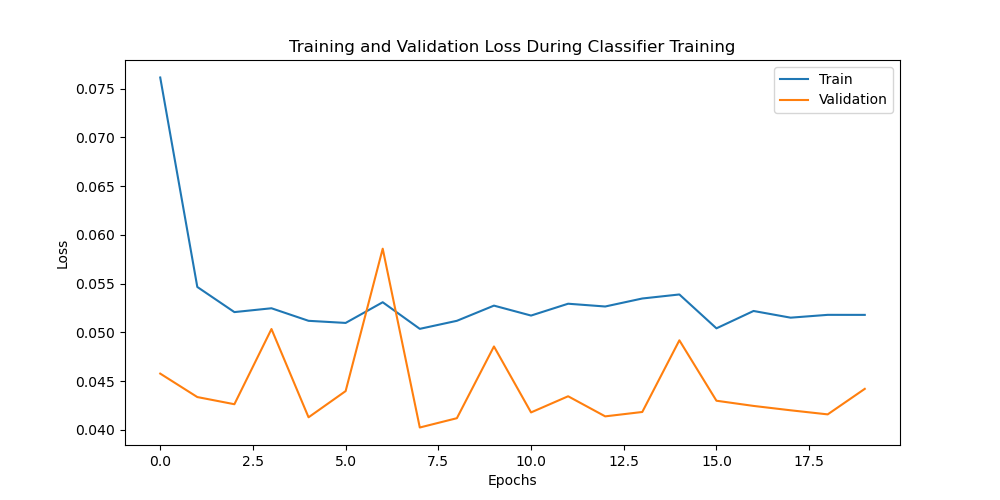
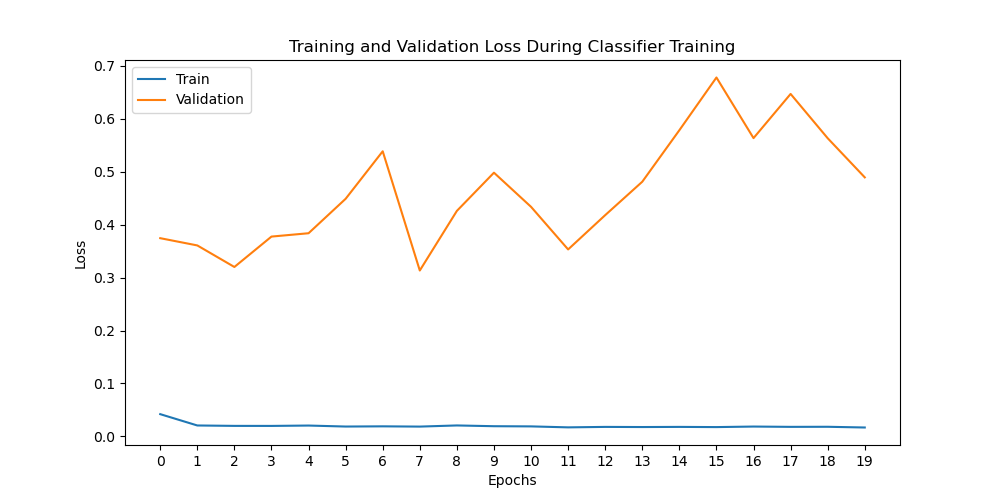
restructured report to have an overview and a detailed appendix, updated some images

diff --git a/recognition/Siamese_46417259/README.md b/recognition/Siamese_46417259/README.md
@@ -3,16 +3,27 @@ Project by Minhao Sun.
 
 This project is a part of the University of Queensland's COMP3710: Pattern Recognition and Analysis course in Semester 2, 2023.
 
-# Project Introduction
-Here is a placeholder
+# Project Overview
+The project aims to classify brain scans in the Alzheimer’s Disease Neuroimaging Initiative (ADNI) brain dataset as being either Cognitive Normal (NC) or suffering from Alzheimer's disease (AD). 
+It achieves this through representation learning using a **Siamese network** with a twin **embedding network** structure.
 
-a description of the algorithm and the problem that it solves
-(approximately a paragraph), how it works in a paragraph and a figure/visualisation
+A Siamese network is a neural network architecture that consists of two or more identical subnetworks that share the same model weights. 
+In the present project's case, the Siamese architecture allows the **embedding network** to learn to generate similar feature vectors for images of the same class and dissimilar feature vectors for images of different classes. Once the **embedding network** is trained, a separate **classifier** is trained to classify the feature vectors generated by the **embedding network**.
 
-name drop pytorch
+The final model works by passing the (preprocessed) images through the trained **embedding network** to generate a feature vector. 
+The feature vector is then passed through the trained **classifier** to generate a prediction. The project is implemented in Python 3.11.4 using Pytorch (see below for other dependencies). It is capable of achieving a final classification accuracy of approximately 78% on the test set.
+
+> [!NOTE]
+> Figures of the model architectures are provided in the section ***The Models*** in the Appendix.
+>
+> Training and validation loss plots, and validation and testing accuracy plots, are provided in the section ***Training and Validating the Models*** in the Appendix. Reproducibility of results is also addressed in the same section.
+>
+> Visualisation of the ADNI dataset (sample inputs) are provided in the section ***The Dataset and Preprocessing*** in the Appendix. The training, validation and testing split is also addressed in the same section.
+>
+> Example outputs of the model are provided in the section ***Using the Models for Classification*** in the Appendix.
 
 ## Project files and usage
-The project contains the following files:
+The project contains the following items:
 * `dataset.py`: contains code for preprocessing and loading data
 * `modules.py`: contains the components of the models used in this project
 * `predict.py`: contains code demonstrating example usage of a trained model
@@ -21,15 +32,27 @@ The project contains the following files:
 * `CONSTANTS.py`: defines global constants for filepaths to be used in the project
 * `BSD_new.txt`: see the section ***Open Source Acknowledgement and Licences***
 * `README.md`: this README
+* `/assets/`: contains images used in this README
 
-
-## Defined Terms
-The following terms in this README are given specific meanings: 
-* torch: Pytorch
-* `nn`: Pytorch's Neural Network module, `torch.nn` 
+## Dependencies
+This project is developed in the following environment:
+* python 3.11.4 
+* pytorch 2.0.1
+* torchvision 0.15.2
+* numpy 1.25.0
+* matplotlib 3.7.1
 
 &nbsp;
 
+# Appendix: the Project in Detail
+The following sections details the technical aspects of the project. It is intended as a supplement to the overview above.
+
+## Defined Terms
+The following terms are given specific meanings: 
+* torch: Pytorch
+* `nn`: Pytorch's Neural Network module, `torch.nn`
+
+&nbsp;
 
 # The Models
 The project makes use of three models which are located in `modules.py` and inherit from `nn.Module`. The models are:
@@ -96,13 +119,13 @@ Image pairings are generated randomly such that for any given image in the datas
 The function `test_visualise_data_MLP` allows for the visualisation of the data used to train/validate/test the MLP. A sample output is provided below: 
 
 ![Sample batch containing 15 images that are used to validate the MLP with labels presented in human-readable form](assets/data_for_mlp.png)
-<sub>Sample batch containing 15 images that are used to validate the MLP with labels presented in human-readable form (note the absence of translation transforms)</sub>
+<sub>Sample batch containing 15 images that are used to **validate** the MLP with labels presented in human-readable form (note the absence of translation transforms)</sub>
 
 The function `test_visualise_data_Siamese` allows for the visualisation of the data used to train/validate/test the Siamese network. A sample output is provided below. 
 Note that the visualisation includes the last 15 characters of each image's filepath (excluding file extension). This was added to check that the same/different labels are applied correctly.
 
 ![Sample batch containing 9 paired images that are used to train the Siamese network with labels presented in human-readable form](assets/data_for_siamese.png)
-<sub>Sample batch containing 9 paired images that are used to train the Siamese network with labels presented in human-readable form (note the presence of translation transforms)</sub>
+<sub>Sample batch containing 9 image pairs that are used to **train** the Siamese network with labels presented in human-readable form (note the presence of translation transforms)</sub>
 
 &nbsp;
 # Training and Validating the Models
@@ -126,12 +149,11 @@ Adam was used as the optimiser for the Siamese network with a learning rate of 0
 
 ### Results
 Ultimately, it was found that 15 epochs of Siamese training for the embedding network resulted in the best classifier accuracy regardless of the number of epochs used to train the classifier.
-This is despite the fact that the Siamese network appears to overfit the training data after 8 to 10 epochs of training in the loss plot below. 
+This is despite the fact that the Siamese network appears to overfit the training data after 9 to 11 epochs of training in the loss plot below (note that the x-axis of the plot is 0-indexed). 
 
-![Training and validation loss plot for the overall Siamese network, showing validation loss diverging from training loss from around epochs 8 to 10](assets/Siamese_loss_after_15_epochs.png)
+![Training and validation loss plot for the overall Siamese network, showing validation loss diverging from training loss from around epochs 9 to 11](assets/Siamese_loss_after_15_epochs.png)
 <sub>Training and validation loss plot for the overall Siamese network</sub>
 
-&nbsp;
 ## Training for the Classification Network
 ### Loss Function
 As the classifier is performing a binary classification task, binary cross-entropy loss was used.
@@ -140,28 +162,47 @@ As the classifier is performing a binary classification task, binary cross-entro
 Adam was used as the optimiser for the classifier with a learning rate of 0.001 and betas of (0.5, 0.999). During testing, this confirguration was found to deliver the best performance in terms of loss and final accuracy. Weight decay and learning rate schedulers were tested, but were found to not improve the performance of the model.
 
 ### Results
-The classifier was trained for 20 epochs. The training and validation loss plot is shown below. Both the training and validation losses appear to stabilise in the second epoch (epoch 1) and remain at approximately the same level throughout all remaining epochs. Comparatively, the validation set has a greater range of variation.
+The classifier was trained for 20 epochs. 
+The training and validation loss plot is shown below. 
+The training loss appears to stabilise in the second epoch (epoch 1) and remain at approximately the same level throughout all remaining epochs. 
+In contrast, the validation loss has a greater range of variation over the 20 epochs but does not appear to follow either an increasing or a decreasing trend.
 
 ![Training and validation loss plot for the classification network, showing both training and validation loss remaining at approximately the same level throughout epochs 1-19](assets/Classifier_loss_after_20_epochs.png)
 <sub>Training and validation loss plot for the classification network</sub>
 
-The classifier's accuracy for both the validation set and the test set is shown below. Consistent with the loss plot, the accuracy of the classifier appears to remain stable throughout all epochs. Comparatively, the testing set has a greater range of variation. **Ultimately, the best accuracy achieved by the classifier on the test set is FILL THIS IN%.**
+The classifier's accuracy for both the validation set and the test set is shown below. 
+The accuracy of the classifier for both datasets appears to remain stable throughout all epochs. Comparatively, the testing set has a greater range of variation. 
+**Ultimately, the best accuracy achieved by the classifier on the test set is 78.46%.**
 
 ![Plot of the classifier's accuracy on the validation and test datasets, showing both accuracies to remain relatively stable throughout all 20 epochs](assets/Classifier_Accuracy_after_20_epochs.png)
 <sub>Plot of the classifier's accuracy on the validation and test datasets</sub>
 
-&nbsp;
 ## Discussion
+The process of training and tuning the models raised several interesting observations. 
+First, given its loss plots, it appears that the Siamese network was overfitting the training data from around epoch 8 to epoch 10 onwards. 
+Interestingly, despite the apparent overfitting, training the Siamese network for 15 epochs resulted in a better final classifier accuracy. 
+Other attempts were made where the Siamese network was trained for 5, 8 or 10 epochs, and in all those cases, the final classifier performed worse compared to 15 epochs of Siamese network training.
+
+A potential explanation for this behaviour is the fact that the training and validation sets in this project are split deterministicly. 
+This means that, as a matter of chance, the validation dataset might have contained slightly different patterns compared to the training dataset. 
+Thus, the project can be further improved by the implementation of N-fold cross-validation, which will allow more insight into the model's fit to the training data to be shown.
+
+A second interesting observation is that there appears to be no correlation between the number of epochs of classifier training and the accuracy of the classifier. This absence of correlation appears consistently across several training runs, regardless of the number of epochs of training that the Siamese backbone received. 
+
+A potential explanation for this behaviour is the fact that the Siamese embedding network architecture used in this project closely follows the architecture proposed by Koch, Zemel and Salakhutdinov<sup>1</sup>. 
+The original paper by Koch, Zemel and Salakhutdinov was concerned with solving a one-shot image recognition task where, after the Siamese embedding network is trained, the classification network only observes a single example of each possible class before making a prediction about a test instance. 
+In contrast, in the present project with a training split of 80%, the classifier is permitted to observe approximately 8400 images of the class AD and approximately 8800 images of the class NC in one epoch of training before making a prediction about a test instance.
+Ultimately, given that the embedding network architecture was optimised for a one-shot recognition task, it appears reasonable that the classifier was able to achieve a testing accuracy close to the final (best) accuracy within the first epoch of training. 
+
+&nbsp;
 
 # Using the Models for Classification
 put some images here
 
-# Project Dependencies
-This project is developed in the following environment:
-* Python 3.11.4 
-* Pytorch
-* NumPy
-* Matplotlib
+![Sample batch of predictions generated by the trained model](assets/predictions.png)
+<sub>Sample batch of predictions generated by the trained model</sub>
+
+
 
 probably some more stuff
 
@@ -173,4 +214,5 @@ probably some more stuff
 
 [3] https://www.analyticsvidhya.com/blog/2023/08/introduction-and-implementation-of-siamese-networks/#:~:text=Binary%20Cross%2DEntropy%20Loss,-Binary%20cross%2Dentropy&text=In%20the%20context%20of%20a,class%20and%20the%20actual%20outcome.
 
-## Open Source Acknowledgement and Licences
+## Open Source Acknowledgement and Licence
+Some data visualisation code used in this project is modified based on code in [Pytorch's Data Tutorial](https://github.com/pytorch/tutorials/blob/main/beginner_source/basics/data_tutorial.py), published under the BSD 3-Clause "New" or "Revised" License. Full text of the license can be found in this project at [BSD_new.txt](BSD_new.txt).
